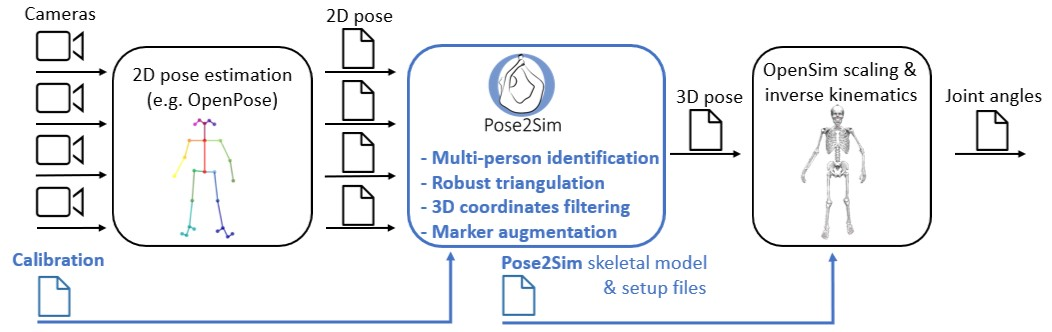
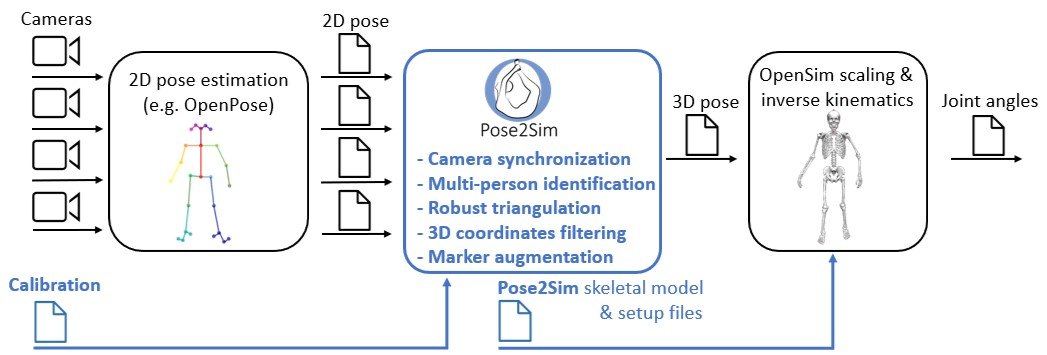
Edited Readme and minor stuff

diff --git a/Pose2Sim/Pose2Sim.py b/Pose2Sim/Pose2Sim.py
@@ -192,7 +192,11 @@ def calibration(config=None):
 
     level, config_dicts = read_config_files(config)
     config_dict = config_dicts[0]
-    session_dir = os.path.realpath([os.getcwd() if level==3 else os.path.join(os.getcwd(), '..') if level==2 else os.path.join(os.getcwd(), '..', '..')][0])
+    try:
+        session_dir = os.path.realpath([os.getcwd() if level==3 else os.path.join(os.getcwd(), '..') if level==2 else os.path.join(os.getcwd(), '..', '..')][0])
+        [os.path.join(session_dir, c) for c in os.listdir(session_dir) if 'calib' in c.lower() ][0]
+    except:
+        session_dir = os.path.realpath(os.getcwd())
     config_dict.get("project").update({"project_dir":session_dir})
 
     # Set up logging

diff --git a/Pose2Sim/synchronization.py b/Pose2Sim/synchronization.py
@@ -18,7 +18,7 @@ All frames can be considered, or only those around a specific time (typically,
 the time when there is a single participant in the scene performing a clear vertical motion).
 Has also been successfully tested for synchronizing random walkswith random walks.
 
-If synchronization results are not satisfying, it can be reset to the original 
+If synchronization results are not satisfying, they can be reset to the original 
 state and tried again with different parameters.
 
 INPUTS: 

diff --git a/README.md b/README.md
@@ -16,10 +16,9 @@
 
 ##### N.B:. Please set undistort_points and handle_LR_swap to false for now since it currently leads to inaccuracies. I'll try to fix it soon.
 
-> **_News_: Version 0.7:**\
-> **Multi-person analysis is now supported!** Latest version is much faster and more robust.\
-> Team sports, combat sports, and ballroom dancing can now take advantage of Pose2Sim full potential.\
-> **Other recently added features**: Automatic batch processing, Marker augmentation, Blender visualization.
+> **_News_: Version 0.8:**\
+> **Automatic camera synchronization is now supported!**\
+> **Other recently added features**: Multi-person analysis, Blender visualization, Marker augmentation, Automatic batch processing.
 <!-- Incidentally, right/left limb swapping is now handled, which is useful if few cameras are used;\
 and lens distortions are better taken into account.\ -->
 > To upgrade, type `pip install pose2sim --upgrade`.
@@ -47,9 +46,9 @@ If you can only use one single camera and don't mind losing some accuracy, pleas
 - [x] v0.4: New calibration tool based on scene measurements
 - [x] v0.5: Automatic batch processing
 - [x] v0.6: Marker augmentation, Blender visualizer
-- [x] **v0.7: Multi-person analysis**
-- [ ] v0.9: New synchronization tool
-- [ ] v0.8: Calibration based on keypoint detection, Handling left/right swaps, Correcting lens distortions
+- [x] v0.7: Multi-person analysis
+- [x] **v0.8: New synchronization tool**
+- [ ] v0.9: Calibration based on keypoint detection, Handling left/right swaps, Correcting lens distortions
 - [ ] v0.10: Graphical User Interface
 - [ ] v1.0: First accomplished release
 
@@ -65,21 +64,21 @@ If you can only use one single camera and don't mind losing some accuracy, pleas
 2. [Use on your own data](#use-on-your-own-data)
    1. [Setting your project up](#setting-your-project-up)
       1. [Retrieve the folder structure](#retrieve-the-folder-structure)
-      2. [Batch processing](#batch-processing)
+      2. [Single Trial vs. Batch processing](#single-trial-vs-batch-processing)
    2. [2D pose estimation](#2d-pose-estimation)
       1. [With OpenPose](#with-openpose)
       2. [With BlazePose (Mediapipe)](#with-blazepose-mediapipe)
       3. [With DeepLabCut](#with-deeplabcut)
       4. [With AlphaPose](#with-alphapose)
-   3. [Camera synchronization](#camera-synchronization)
    4. [Camera calibration](#camera-calibration)
       1. [Convert from Qualisys, Optitrack, Vicon, OpenCap, EasyMocap, or bioCV](#convert-from-qualisys-optitrack-vicon-opencap-easymocap-or-biocv)
       2. [Calculate from scratch](#calculate-from-scratch)
-   5. [Tracking, Triangulating, Filtering](#tracking-triangulating-filtering)
-      1. [Associate persons across cameras](#associate-persons-across-cameras)
-      2. [Triangulating keypoints](#triangulating-keypoints)
-      3. [Filtering 3D coordinates](#filtering-3d-coordinates)
-      4. [Marker augmentation](#marker-augmentation)
+   5. [Synchronization, Tracking, Triangulating, Filtering](#synchronization-tracking-triangulating-filtering)
+      1. [Synchronization](#synchronization)
+      2. [Associate persons across cameras](#associate-persons-across-cameras)
+      3. [Triangulating keypoints](#triangulating-keypoints)
+      4. [Filtering 3D coordinates](#filtering-3d-coordinates)
+      5. [Marker augmentation](#marker-augmentation)
    6. [OpenSim kinematics](#opensim-kinematics)
       1. [OpenSim Scaling](#opensim-scaling)
       2. [OpenSim Inverse kinematics](#opensim-inverse-kinematics)
@@ -124,11 +123,12 @@ If you don't use Anaconda, type `python -V` in terminal to make sure python>=3.8
 > _**This demonstration provides an example experiment of a person balancing on a beam, filmed with 4 calibrated cameras processed with OpenPose.**_ 
 
 Open a terminal, enter `pip show pose2sim`, report package location. \
-Copy this path and go to the Single participant Demo folder: `cd <path>\pose2sim\Demo\S00_Demo_Session\S00_P00_SingleParticipant`. \
+Copy this path and go to the Single participant Demo folder: `cd <path>\Pose2Sim\S01_Demo_SingleTrial`. \
 Type `ipython`, and try the following code:
 ``` python
 from Pose2Sim import Pose2Sim
 Pose2Sim.calibration()
+Pose2Sim.synchronization()
 Pose2Sim.personAssociation()
 Pose2Sim.triangulation()
 Pose2Sim.filtering()
@@ -136,7 +136,7 @@ Pose2Sim.markerAugmentation()
 ```
 3D results are stored as .trc files in each trial folder in the `pose-3d` directory.
 
-*N.B.:* Default parameters have been provided in [Config.toml](https://github.com/perfanalytics/pose2sim/blob/main/Pose2Sim/S00_Demo_Session/Config.toml) but can be edited.\
+*N.B.:* Default parameters have been provided in [Config.toml](https://github.com/perfanalytics/pose2sim/blob/main/Pose2Sim/S01_Demo_SingleTrial/Config.toml) but can be edited.\
 *N.B.:* *Try the calibration tool by changing `calibration_type` to `calculate` instead of `convert` (more info [there](#calculate-from-scratch)).*
 
 <br/>
@@ -149,7 +149,7 @@ Pose2Sim.markerAugmentation()
 2. Open the provided `Model_Pose2Sim_LSTM.osim` model from `Pose2Sim/OpenSim_Setup`. *(File -> Open Model)*
 3. Load the provided `Scaling_Setup_Pose2Sim_LSTM.xml` scaling file from `Pose2Sim/OpenSim_Setup`. *(Tools -> Scale model -> Load)*
 4. Run. You should see your skeletal model take the static pose.
-5. Save your scaled model in `S00_P00_OpenSim/Model_Pose2Sim_S00_P00_LSTM_scaled.osim`. *(File -> Save Model As)*
+5. Save your scaled model in `S01_Demo_SingleTrial/OpenSim/Model_Pose2Sim_S00_P00_LSTM_scaled.osim`. *(File -> Save Model As)*
 
 ### Inverse kinematics
 1. Load the provided `IK_Setup_Pose2Sim_LSTM.xml` scaling file from `Pose2Sim/OpenSim_Setup`. *(Tools -> Inverse kinematics -> Load)*
@@ -180,7 +180,7 @@ https://github.com/perfanalytics/pose2sim/assets/54667644/5d7c858f-7e46-40c1-928
 ## Demonstration Part-4 (optional): Try multi-person analysis
 > _**Another person, hidden all along, will appear when multi-person analysis is activated!**_
 
-Go to the Multi-participant Demo folder: `cd <path>\pose2sim\S00_Demo_Session\S00_P01_MultiParticipants`. \
+Go to the Multi-participant Demo folder: `cd <path>\Pose2Sim\S00_Demo_BatchSession\S00_P01_MultiParticipants\S00_P01_T02_Participants1-2`. \
 Type `ipython`, and try the following code:
 ``` python
 from Pose2Sim import Pose2Sim
@@ -216,24 +216,45 @@ Make sure that the order of *[markerAugmentation]* `participant_height` and `par
 ### Retrieve the folder structure
   1. Open a terminal, enter `pip show pose2sim`, report package location. \
      Copy this path and do `cd <path>\pose2sim`.
-  2. Copy the `S00_Demo_Session` folder wherever you like, and rename it as you wish. 
-  3. The rest of the tutorial will explain to you how to populate the `Calibration` and `videos` folders, edit the [Config.toml](https://github.com/perfanalytics/pose2sim/blob/main/Pose2Sim/S00_Demo_Session/Config.toml) files, and run each Pose2Sim step.
+  2. Copy the *single trial* or *batch session* folder wherever you like, and rename it as you wish. 
+  3. The rest of the tutorial will explain to you how to populate the `Calibration` and `videos` folders, edit the [Config.toml](https://github.com/perfanalytics/pose2sim/blob/main/Pose2Sim/S01_Demo_SingleTrial/Config.toml) files, and run each Pose2Sim step.
 
 </br>
 
-### Batch processing
-  Each session folder should follow a `Session -> Participant -> Trial` structure, with a `Config.toml` file in each of the directory levels:
+### Single Trial vs. Batch processing
+
+> _**Copy and edit either the [S01_Demo_SingleTrial](https://github.com/perfanalytics/pose2sim/blob/main/Pose2Sim/S01_Demo_SingleTrial) folder or the [S00_Demo_BatchSession](https://github.com/perfanalytics/pose2sim/blob/main/Pose2Sim/S00_Demo_BatchSession) one.**_ 
+> - Single trial is more straight-forward to set up for isolated experiments
+> - Batch processing allows you to run numerous analysis with different parameters and minimal friction
+
+
+
+#### Single trial
+
+The single trial folder should contain a `Config.toml` file, a `calibration` folder, and a `pose` folder, the latter including one subfolder for each camera.
+
+<pre>
+SingleTrial \
+├── calibration \
+├── pose \
+└── <i><b>Config.toml</i></b>
+</pre>
+
+#### Batch processing
+
+For batch processing, each session directory should follow a `Session -> Participant -> Trial` structure, with a `Config.toml` file in each of the directory levels. 
 
 <pre>
 Session_s1         \ <i><b>Config.toml</i></b>
 ├── Calibration\ 
 └── Participant_p1 \ <i><b>Config.toml</i></b>
     └── Trial_t1   \ <i><b>Config.toml</i></b>
+        └── pose \
 </pre>
 
 Run Pose2Sim from the `Session` folder if you want to batch process the whole session, from the `Participant` folder if you want to batch process all the trials of a participant, or from the `Trial` folder if you want to process a single trial. There should be one `Calibration` folder per session. 
 
-Global instructions are given in the Config.toml file of the `Session` folder, and can be altered for specific `Participants` or `Trials` by uncommenting keys and their values in their respective Config.toml files.\
+Global parameters are given in the `Config.toml` file of the `Session` folder, and can be altered for specific `Participants` or `Trials` by uncommenting keys and their values in their respective Config.toml files.\
 Try uncommenting `[project]` and set `frame_range = [10,300]` for a Participant for example, or uncomment `[filtering.butterworth]` and set `cut_off_frequency = 10` for a Trial.
 
 </br>
@@ -253,7 +274,7 @@ The accuracy and robustness of Pose2Sim have been thoroughly assessed only with 
 * The [BODY_25B model](https://github.com/CMU-Perceptual-Computing-Lab/openpose_train/tree/master/experimental_models) has more accurate results than the standard BODY_25 one and has been extensively tested for Pose2Sim. \
 You can also use the [BODY_135 model](https://github.com/CMU-Perceptual-Computing-Lab/openpose_train/tree/master/experimental_models), which allows for the evaluation of pronation/supination, wrist flexion, and wrist deviation.\
 All other OpenPose models (BODY_25, COCO, MPII) are also supported.\
-Make sure you modify the [Config.toml](https://github.com/perfanalytics/pose2sim/blob/main/Pose2Sim/S00_Demo_Session/Config.toml) file accordingly.
+Make sure you modify the [Config.toml](https://github.com/perfanalytics/pose2sim/blob/main/Pose2Sim/S01_Demo_SingleTrial/Config.toml) file accordingly.
 * Use one of the `json_display_with_img.py` or `json_display_with_img.py` scripts (see [Utilities](#utilities)) if you want to display 2D pose detections.
 
 **N.B.:** *OpenPose BODY_25B is the default 2D pose estimation model used in Pose2Sim. However, other skeleton models from other 2D pose estimation solutions can be used alternatively.* 
@@ -268,7 +289,7 @@ However, it is less robust and accurate than OpenPose, and can only detect a sin
   python -m Blazepose_runsave -i input_file -dJs
   ```
   Type in `python -m Blazepose_runsave -h` for explanation on parameters.
-* Make sure you changed the `pose_model` and the `tracked_keypoint` in the [Config.toml](https://github.com/perfanalytics/pose2sim/blob/main/Pose2Sim/S00_Demo_Session/Config.toml) file.
+* Make sure you changed the `pose_model` and the `tracked_keypoint` in the [Config.toml](https://github.com/perfanalytics/pose2sim/blob/main/Pose2Sim/S01_Demo_SingleTrial/Config.toml) file.
 
 ### With DeepLabCut:
 If you need to detect specific points on a human being, an animal, or an object, you can also train your own model with [DeepLabCut](https://github.com/DeepLabCut/DeepLabCut). In this case, Pose2Sim is used as an alternative to [AniPose](https://github.com/lambdaloop/anipose), but it may yield better results since 3D reconstruction takes confidence into account (see [this article](https://doi.org/10.1080/21681163.2023.2292067)).
@@ -277,7 +298,7 @@ If you need to detect specific points on a human being, an animal, or an object,
    ``` cmd
    python -m DLC_to_OpenPose -i input_h5_file
    ```
-3. Edit `pose.CUSTOM` in [Config.toml](https://github.com/perfanalytics/pose2sim/blob/main/Pose2Sim/S00_Demo_Session/Config.toml), and edit the node IDs so that they correspond to the column numbers of the 2D pose file, starting from zero. Make sure you also changed the `pose_model` and the `tracked_keypoint`.\
+3. Edit `pose.CUSTOM` in [Config.toml](https://github.com/perfanalytics/pose2sim/blob/main/Pose2Sim/S01_Demo_SingleTrial/Config.toml), and edit the node IDs so that they correspond to the column numbers of the 2D pose file, starting from zero. Make sure you also changed the `pose_model` and the `tracked_keypoint`.\
    You can visualize your skeleton's hierarchy by changing pose_model to CUSTOM and writing these lines: 
    ``` python
     config_path = r'path_to_Config.toml'
@@ -298,37 +319,7 @@ All AlphaPose models are supported (HALPE_26, HALPE_68, HALPE_136, COCO_133, COC
    ``` cmd
    python -m AlphaPose_to_OpenPose -i input_alphapose_json_file
    ```
-* Make sure you changed the `pose_model` and the `tracked_keypoint` in the [Config.toml](https://github.com/perfanalytics/pose2sim/blob/main/Pose2Sim/S00_Demo_Session/Config.toml) file.
-
-</br>
-
-## Camera synchronization
-
-> _**Cameras need to be synchronized, so that 2D points correspond to the same position across cameras.**_\
-***N.B.:** Skip this step if your cameras are already synchronized.*
-
-Open an Anaconda prompt or a terminal in a `Session`, `Participant`, or `Trial` folder.\
-Type `ipython`.
-
-``` python
-from Pose2Sim import Pose2Sim
-Pose2Sim.synchronization()
-```
-
-Reference camera (usally cam1) should start record at last between whole cameras.\
-
-**How to get perfect sync point**
-1. Set cameras position where they can see `id_kpt` (default: `RWrist`) clearly.
-2. Press record button, and what pressed last time to be reference camera.
-3. Walk to proper location( See 1 ).
-4. Raise your hands.
-5. Downward your hand fastly.
-
-Check printed output. If results are not satisfying, try and release the constraints in the [Config.toml](https://github.com/perfanalytics/pose2sim/blob/main/Pose2Sim/S00_Demo_Session/Config.toml) file.
-
-Alternatively, use a flashlight or a clap to synchronize them. GoPro cameras can also be synchronized with a timecode, by GPS (outdoors) or with a remote control (slightly less reliable).
-
-
+* Make sure you changed the `pose_model` and the `tracked_keypoint` in the [Config.toml](https://github.com/perfanalytics/pose2sim/blob/main/Pose2Sim/S01_Demo_SingleTrial/Config.toml) file.
 
 </br>
 
@@ -356,23 +347,23 @@ If you already have a calibration file, set `calibration_type` type to `convert`
 - **From [Qualisys](https://www.qualisys.com):**
   - Export calibration to `.qca.txt` within QTM.
   - Copy it in the `Calibration` Pose2Sim folder.
-  - set `convert_from` to 'qualisys' in your [Config.toml](https://github.com/perfanalytics/pose2sim/blob/main/Pose2Sim/S00_Demo_Session/Config.toml) file. Change `binning_factor` to 2 if you film in 540p.
+  - set `convert_from` to 'qualisys' in your [Config.toml](https://github.com/perfanalytics/pose2sim/blob/main/Pose2Sim/S01_Demo_SingleTrial/Config.toml) file. Change `binning_factor` to 2 if you film in 540p.
 - **From [Optitrack](https://optitrack.com/):** Exporting calibration will be available in Motive 3.2. In the meantime:
   - Calculate intrinsics with a board (see next section).
   - Use their C++ API [to retrieve extrinsic properties](https://docs.optitrack.com/developer-tools/motive-api/motive-api-function-reference#tt_cameraxlocation). Translation can be copied as is in your `Calib.toml` file, but TT_CameraOrientationMatrix first needs to be [converted to a Rodrigues vector](https://docs.opencv.org/3.4/d9/d0c/group__calib3d.html#ga61585db663d9da06b68e70cfbf6a1eac) with OpenCV. See instructions [here](https://github.com/perfanalytics/pose2sim/issues/28).
   - Use the `Calib.toml` file as is and do not run Pose2Sim.calibration()
 - **From [Vicon](http://www.vicon.com/Software/Nexus):**  
   - Copy your `.xcp` Vicon calibration file to the Pose2Sim `Calibration` folder.
-  - set `convert_from` to 'vicon' in your [Config.toml](https://github.com/perfanalytics/pose2sim/blob/main/Pose2Sim/S00_Demo_Session/Config.toml) file. No other setting is needed.
+  - set `convert_from` to 'vicon' in your [Config.toml](https://github.com/perfanalytics/pose2sim/blob/main/Pose2Sim/S01_Demo_SingleTrial/Config.toml) file. No other setting is needed.
 - **From [OpenCap](https://www.opencap.ai/):**  
   - Copy your `.pickle` OpenCap calibration files to the Pose2Sim `Calibration` folder.
-  - set `convert_from` to 'opencap' in your [Config.toml](https://github.com/perfanalytics/pose2sim/blob/main/Pose2Sim/S00_Demo_Session/Config.toml) file. No other setting is needed.
+  - set `convert_from` to 'opencap' in your [Config.toml](https://github.com/perfanalytics/pose2sim/blob/main/Pose2Sim/S01_Demo_SingleTrial/Config.toml) file. No other setting is needed.
 - **From [EasyMocap](https://github.com/zju3dv/EasyMocap/):**  
   - Copy your `intri.yml` and `extri.yml` files to the Pose2Sim `Calibration` folder.
-  - set `convert_from` to 'easymocap' in your [Config.toml](https://github.com/perfanalytics/pose2sim/blob/main/Pose2Sim/S00_Demo_Session/Config.toml) file. No other setting is needed.
+  - set `convert_from` to 'easymocap' in your [Config.toml](https://github.com/perfanalytics/pose2sim/blob/main/Pose2Sim/S01_Demo_SingleTrial/Config.toml) file. No other setting is needed.
 - **From [bioCV](https://github.com/camera-mc-dev/.github/blob/main/profile/mocapPipe.md):**  
   - Copy your bioCV calibration files (no extension) to the Pose2Sim `Calibration` folder.
-  - set `convert_from` to 'biocv' in your [Config.toml](https://github.com/perfanalytics/pose2sim/blob/main/Pose2Sim/S00_Demo_Session/Config.toml) file. No other setting is needed.
+  - set `convert_from` to 'biocv' in your [Config.toml](https://github.com/perfanalytics/pose2sim/blob/main/Pose2Sim/S01_Demo_SingleTrial/Config.toml) file. No other setting is needed.
 - **From [AniPose](https://github.com/lambdaloop/anipose) or [FreeMocap](https://github.com/freemocap/freemocap):**  
   - Copy your `.toml` calibration file to the Pose2Sim `Calibration` folder.
   - Calibration can be skipped since Pose2Sim uses the same [Aniposelib](https://anipose.readthedocs.io/en/latest/aniposelibtutorial.html) format.
@@ -384,7 +375,7 @@ If you already have a calibration file, set `calibration_type` type to `convert`
 > _**Calculate calibration parameters with a checkerboard, with measurements on the scene, or automatically with detected keypoints.**_\
 > Take heart, it is not that complicated once you get the hang of it!
 
-  > *N.B.:* Try the calibration tool on the Demo by changing `calibration_type` to `calculate` in [Config.toml](https://github.com/perfanalytics/pose2sim/blob/main/Pose2Sim/S00_Demo_Session/Config.toml).\
+  > *N.B.:* Try the calibration tool on the Demo by changing `calibration_type` to `calculate` in [Config.toml](https://github.com/perfanalytics/pose2sim/blob/main/Pose2Sim/S01_Demo_SingleTrial/Config.toml).\
   For the sake of practicality, there are voluntarily few board images for intrinsic calibration, and few points to click for extrinsic calibration. In spite of this, your reprojection error should be under 1-2 cm, which [does not hinder the quality of kinematic results in practice](https://www.mdpi.com/1424-8220/21/19/6530/htm#:~:text=Angle%20results%20were,Table%203).).
   
   - **Calculate intrinsic parameters with a checkerboard:**
@@ -394,7 +385,7 @@ If you already have a calibration file, set `calibration_type` type to `convert`
 
     - Create a folder for each camera in your `Calibration\intrinsics` folder.
     - For each camera, film a checkerboard or a charucoboard. Either the board or the camera can be moved.
-    - Adjust parameters in the [Config.toml](https://github.com/perfanalytics/pose2sim/blob/main/Pose2Sim/S00_Demo_Session/Config.toml) file.
+    - Adjust parameters in the [Config.toml](https://github.com/perfanalytics/pose2sim/blob/main/Pose2Sim/S01_Demo_SingleTrial/Config.toml) file.
     - Make sure that the board:
       - is filmed from different angles, covers a large part of the video frame, and is in focus.
       - is flat, without reflections, surrounded by a white border, and is not rotationally invariant (Nrows ≠ Ncols, and Nrows odd if Ncols even).
@@ -412,7 +403,7 @@ If you already have a calibration file, set `calibration_type` type to `convert`
   - Create a folder for each camera in your `Calibration\extrinsics` folder.
   - Once your cameras are in place, shortly film either a board laid on the floor, or the raw scene\
   (only one frame is needed, but do not just take a photo unless you are sure it does not change the image format).
-  - Adjust parameters in the [Config.toml](https://github.com/perfanalytics/pose2sim/blob/main/Pose2Sim/S00_Demo_Session/Config.toml) file.
+  - Adjust parameters in the [Config.toml](https://github.com/perfanalytics/pose2sim/blob/main/Pose2Sim/S01_Demo_SingleTrial/Config.toml) file.
   - Then,
     - **With a checkerboard:**\
       Make sure that it is seen by all cameras. \
@@ -431,7 +422,31 @@ If you already have a calibration file, set `calibration_type` type to `convert`
 </br>
 
 
-## Tracking, Triangulating, Filtering
+## Synchronizing, Tracking, Triangulating, Filtering
+
+### Synchronization
+
+> _**Cameras need to be synchronized, so that 2D points correspond to the same position across cameras.**_\
+***N.B.:** Skip this step if your cameras are natively synchronized.*
+
+Open an Anaconda prompt or a terminal in a `Session`, `Participant`, or `Trial` folder.\
+Type `ipython`.
+
+``` python
+from Pose2Sim import Pose2Sim
+Pose2Sim.synchronization()
+```
+
+For each camera, this computes mean vertical speed for the chosen keypoints, and finds the time offset for which their correlation is highest.\
+All keypoints can be taken into account, or a subset of them. The user can also specify a time for each camera when only one participant is in the scene, preferably performing a clear vertical motion.
+
+If results are not satisfying, set `reset_sync` to true in `Config.toml` to revert to original state. Then switch to false again and edit the parameters.
+
+*N.B.:* Alternatively, use a flashlight or a clap to synchronize them. GoPro cameras can also be synchronized with a timecode, by GPS (outdoors) or with a remote control (slightly less reliable).
+
+
+
+</br>
 
 ### Associate persons across cameras
 
@@ -476,7 +491,7 @@ Output:\
 
 ### Filtering 3D coordinates
 > _**Filter your 3D coordinates.**_\
-> Numerous filter types are provided, and can be tuned accordingly.\
+> Numerous filter types are provided, and can be tuned accordingly.
 
 Open an Anaconda prompt or a terminal in a `Session`, `Participant`, or `Trial` folder.\
 Type `ipython`.
